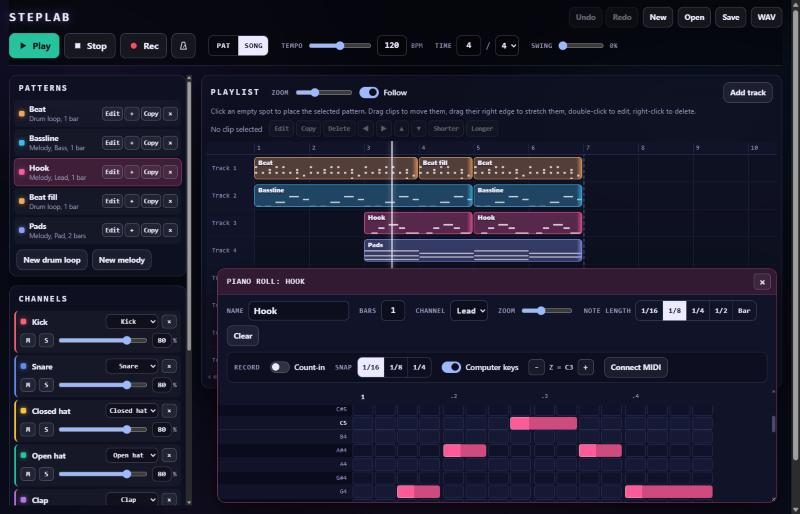
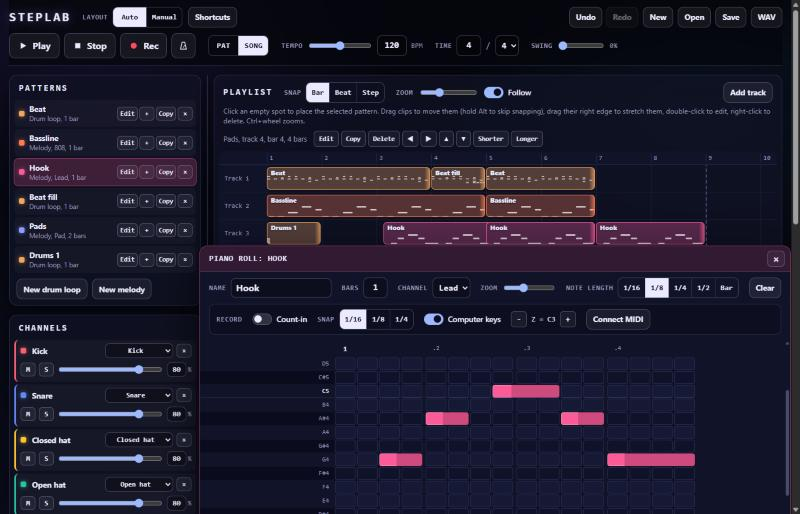
Document 808 sounds, layout modes and FL shortcuts

diff --git a/README.md b/README.md
@@ -8,7 +8,8 @@ A small beat maker that runs in the browser, built around the core of FL Studio:
 
 ## What you can do
 
-- **Channels:** every sound is a channel with its own name, mute, solo, volume fader and a box for an exact volume percent. Start with six drums (kick, snare, closed hat, open hat, clap, tom) plus a Lead and a Bass, and add as many drum or synth channels as you like. Click a name to rename it; change its sound from the list.
+- **Channels:** every sound is a channel with its own name, mute, solo, volume fader and a box for an exact volume percent. New songs start with an 808 kit plus a Lead and an 808 bass, and you can add as many drum or synth channels as you like. Click a name to rename it; change its sound from the list.
+- **Sounds:** an 808 kit (kick, snare, closed and open hats, clap, tom, rimshot, cowbell), a classic kit (kick, snare, hats, clap, tom), and five synths: Lead, Bass, 808, Pluck and Pad. **Add 808 kit** drops the whole 808 set into any song.
 - **Patterns:** make as many **drum loops** and **melodies** as you need, each with its own name and length. Copy one to make a variation.
 - **Playlist:** the whole song at a glance. Every pattern you place shows up as a clip with a small picture of its notes. Drag clips to move them between bars and tracks, drag the right edge to repeat them longer, right-click to delete. Click an empty spot to place the selected pattern there.
 - **Editor windows:** double-click a clip and its editor opens in a window over the playlist, like FL Studio. Drum loops open in a step sequencer: click a step, or drag across steps to paint or erase. Melodies open in a four octave piano roll: click to place a note, drag right to make it longer, click a note to delete it, stack notes for chords. Drag windows by their title bar and resize them from the corner.
@@ -16,6 +17,8 @@ A small beat maker that runs in the browser, built around the core of FL Studio:
 - **Record:** play notes on a MIDI keyboard or your computer keyboard while the music plays. Notes land in the open melody where you played them, snapped to 1/16, 1/8 or 1/4 notes, with the length you held them. A one bar count-in and a metronome help you come in on time.
 - **Any meter:** type in the tempo (60 to 180 BPM) and the time signature (any number of beats over 4 or 8, such as 3/4, 6/8 or 7/8). Patterns can be up to 16 bars of 4/4 and songs up to 128.
 - **Feel:** swing pushes every second sixteenth late, up to a triplet shuffle.
+- **Layout:** **Auto** sizes the sidebar to fit and shrink-wraps editor windows to what they show. **Manual** lets you drag the divider between the sidebar and the playlist, the playlist's bottom edge, and the corner of each window. Dragging the divider switches to Manual; double-clicking it goes back to Auto.
+- **FL Studio shortcuts:** Space, R, L, Alt-drag, Ctrl+B and the rest work the way FL users expect. Press F1 for the list.
 - **Undo and redo** for every change. A whole recording take undoes in one step.
 - **Save:** your song autosaves in the browser. Save and Open move it in and out as a JSON file. Files from earlier versions open as a song with their loop already placed.
 - **Export:** WAV renders the song, or just the current pattern in PAT mode, to a file that loops seamlessly in other music apps.
@@ -31,20 +34,30 @@ A small beat maker that runs in the browser, built around the core of FL Studio:
 
 ### Keyboard
 
+Steplab follows FL Studio shortcuts where it can. Press `F1` in the app for this list.
+
 | Key | Action |
 | --- | --- |
-| `P` or `Space` | Play or pause (`Space` toggles a step when a grid square has focus) |
-| `Esc` | Stop and go back to the start (inside a window, close it) |
-| `Shift` + `R` | Turn recording on or off |
-| `Z` to `M` and `Q` to `U` | Play notes, laid out like piano keys (`S`, `D`, `G`, `H`, `J` and `2`, `3`, `5`, `6`, `7` are the black keys) |
-| `-` and `=` | Move the computer keyboard down or up an octave |
-| Arrow keys in an editor | Move between steps |
-| `Space` or `Enter` in an editor | Turn the focused step or note on or off |
-| `Shift` + Left or Right on a note | Make it shorter or longer |
-| Arrow keys on a clip | Move it a bar (with `Shift`, a beat) or a track |
-| `[` and `]` on a clip | Make it shorter or longer |
-| `Enter`, `Delete`, `Ctrl` + `D` on a clip | Edit, delete, duplicate |
-| `Ctrl` + `Z`, `Ctrl` + `Shift` + `Z` | Undo, redo |
+| `Space` | Play, or stop and go back to the start (`Space` toggles a step when a grid square has focus) |
+| `Ctrl` + `Space` | Play or pause |
+| `Esc` | Stop (inside a window, close it) |
+| `R` | Record on or off (`Shift` + `R` while computer keys are on, since `R` then plays a note) |
+| `L` | Switch between Pattern and Song mode |
+| Numpad `+` / `-` | Next or previous pattern |
+| `Ctrl` + `S`, `Ctrl` + `O`, `Ctrl` + `R` | Save, open, export WAV |
+| `Ctrl` + `Z` (or `Ctrl` + `Alt` + `Z`), `Ctrl` + `Y` | Undo, redo |
+| `F5`, `F6`, `F7`, `F1` | Playlist, channel rack, piano roll, shortcut list |
+| `Alt` + drag in the playlist | Move or stretch a clip without snapping |
+| `Ctrl` + `B` on a clip | Duplicate it after itself |
+| `Ctrl` + `C`, `Ctrl` + `V` on a clip | Copy, then paste after the selected clip |
+| `Ctrl` + `D` | Deselect |
+| `Delete`, `Enter` on a clip | Delete it, edit its pattern |
+| Arrow keys on a clip | Move by the snap size or a track (`Shift`: one step) |
+| `[` and `]` on a clip | Shorter or longer |
+| `Ctrl` + mouse wheel | Zoom the playlist |
+| Right-click | Delete a clip, note or step (drag to delete more) |
+| `Z` to `M` and `Q` to `U` | Play notes, laid out like piano keys (`-` and `=` change octave) |
+| Arrow keys, `Space`, `Shift` + Left/Right in an editor | Move, toggle a step or note, change a note's length |
 
 Clips are real buttons, and the playlist has a toolbar (Edit, Copy, Delete, move and length buttons) for touch screens and screen readers. Each editor grid is a single Tab stop, and every square has a spoken label such as "Kick, bar 2, step 5, on" or "C sharp 4, step 9, note, 3 steps long".
 
@@ -52,7 +65,7 @@ Clips are real buttons, and the playlist has a toolbar (Edit, Copy, Delete, move
 
 - **Vite + TypeScript**, with plain DOM code and no UI framework. A small element helper and a tiny store do the job. The grids only touch the squares that changed, so even a 16 bar piano roll (over 12,000 buttons) rebuilds in about 60 ms and a single edit takes about 1 ms. Playlist clips draw their note pictures once as SVG and tile them.
 - **[Tone.js](https://tonejs.github.io/)** for audio scheduling and synthesis.
-- **Every sound is synthesized in code.** There are no audio samples, so there are no licensing questions. The kick is a pitch-swept sine with a noise click, hats are FM metal synths through a high-pass filter, the clap is three quick noise bursts plus a tail, and the melody sounds are polyphonic subtractive and FM synths.
+- **Every sound is synthesized in code.** There are no audio samples, so there are no licensing questions. The Roland TR-808 made its sounds with analog circuits rather than recordings, so its recipes translate directly: the 808 kick is a sine that drops in pitch over a long decay, the snare is two tuned tones plus filtered noise, the cowbell is two square waves at 540 and 800 Hz through a band-pass filter, and the 808 bass is a sine with a short pitch "knock", a long body and a little saturation so it carries on small speakers. The melody sounds are polyphonic subtractive and FM synths.
 - **Web MIDI** for keyboards, in Chrome, Edge and Firefox (Safari does not support it).
 - **Vitest** for the timing, pattern, recording, file, MIDI and WAV logic.
 
